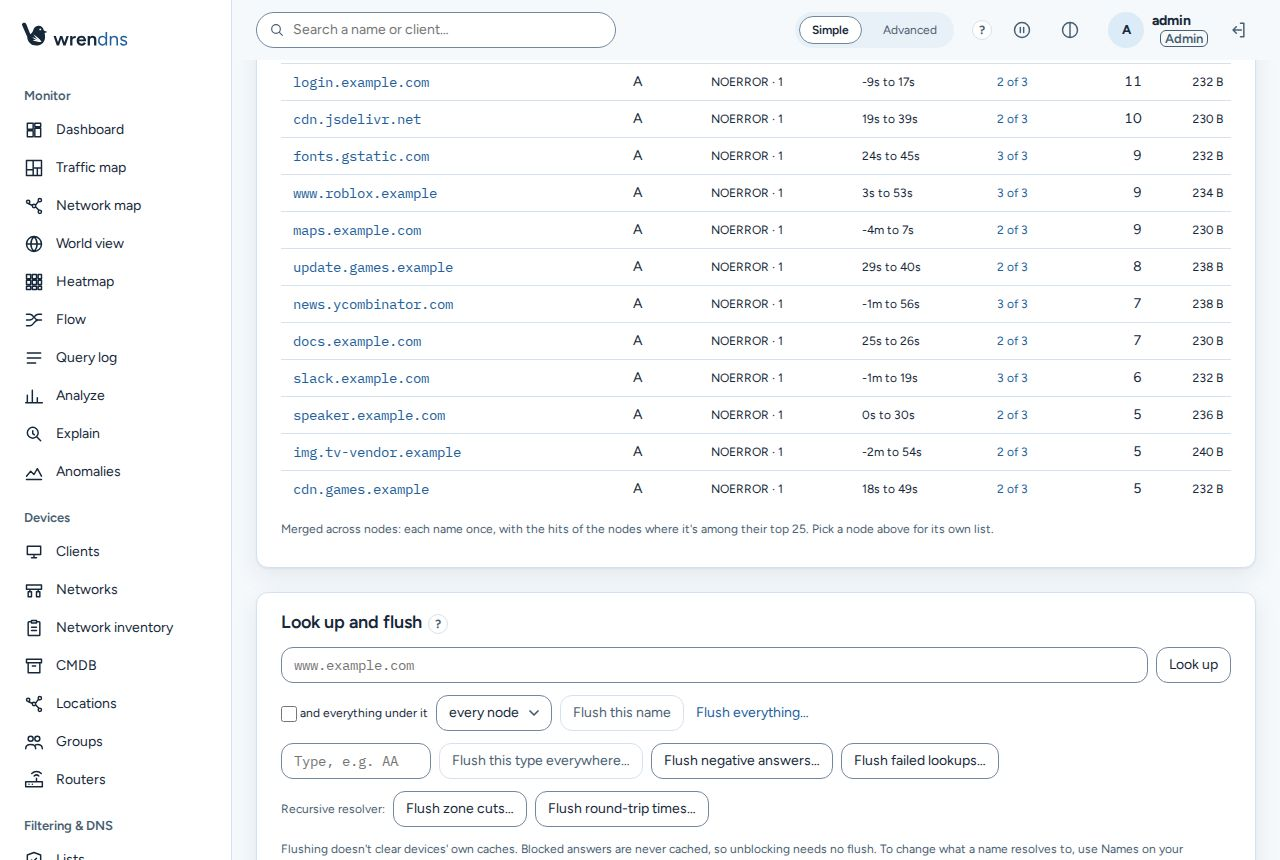
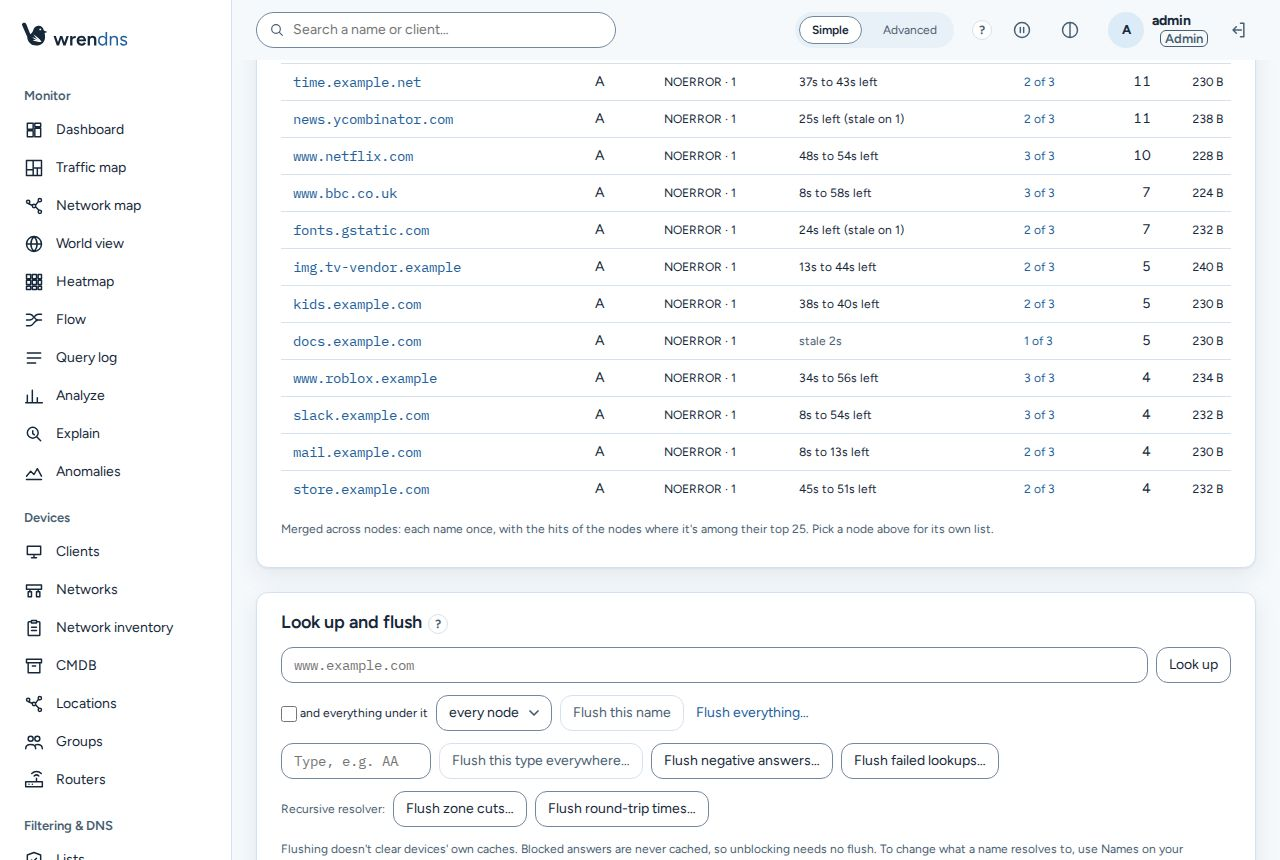
fix(ui): the cache chart legend works percentages out from counts, merged top names never show a negative time left, Lists status shows while a row downloads; shots retaken [DNS-007, DNS-001, FLT-004, DOC-006]

diff --git a/ui/src/pages/Cache.svelte b/ui/src/pages/Cache.svelte
@@ -68,17 +68,19 @@
     const at = (iso: string) => Math.round(Date.parse(iso) / 1000 / step) * step;
     const times = [...new Set(stats.flatMap((s) => (s.history ?? []).map((p) => at(p.at))))].sort((a, b) => a - b);
     const index = new Map(times.map((t, i) => [t, i]));
-    const series = (pick: (p: S['CachePoint']) => number | null | undefined): Series[] =>
+    const series = (pick: (p: S['CachePoint']) => number | null | undefined, percent = false): Series[] =>
       stats.map((s, i) => {
         const values: (number | null)[] = times.map(() => null);
         for (const p of s.history ?? []) {
           const j = index.get(at(p.at));
           if (j != null) values[j] = pick(p) ?? null;
         }
-        return { label: label(s), color: colors[i % colors.length], values: values as number[] };
+        // A percentage is not added up over time or across nodes: each node's legend figure is its
+        // hits over its lookups for the hour (`hitLastHour`, from the counts), null before any lookup.
+        return { label: label(s), color: colors[i % colors.length], values: values as number[], ...(percent ? { overall: hitLastHour(s) } : {}) };
       });
     // DNS-007: answered from the cache (fresh or refreshed); fresh hits alone from older nodes.
-    return { times, hit: series((p) => p.answeredPercent ?? p.hitPercent), lookups: series((p) => p.lookups) };
+    return { times, hit: series((p) => p.answeredPercent ?? p.hitPercent, true), lookups: series((p) => p.lookups) };
   });
 
   const lastHour = (s: Stats, k: 'staleServed' | 'prefetches' | 'evictions' | 'lookups') =>
@@ -94,7 +96,6 @@
   const barColors = ['--ok', '--warn', '--info', '--bad'];
   let showAllNodes = $state(false);
   let expanded = $state<string | null>(null);
-  const ttlShort = (s: number) => (s >= 0 ? duration(s) : `-${duration(-s)}`);
   type Merged = {
     key: string;
     name: string;
@@ -107,6 +108,8 @@
     bytes: number;
     ttlMin: number;
     ttlMax: number;
+    /** Nodes holding it past its time (kept only to answer when upstreams fail). */
+    stale: number;
     nodes: { node: string; entry: S['CacheTopEntry'] }[];
   };
   // Answers with an error (a node that couldn't be asked) don't count as nodes holding names.
@@ -124,8 +127,12 @@
         if (m) {
           m.hits += e.hits;
           m.bytes = Math.max(m.bytes, e.bytes);
-          m.ttlMin = Math.min(m.ttlMin, e.ttlLeftSeconds);
-          m.ttlMax = Math.max(m.ttlMax, e.ttlLeftSeconds);
+          if (e.ttlLeftSeconds >= 0) {
+            m.ttlMin = Math.min(m.ttlMin, e.ttlLeftSeconds);
+            m.ttlMax = Math.max(m.ttlMax, e.ttlLeftSeconds);
+          } else {
+            m.stale++;
+          }
           m.authentic ||= e.authentic;
           m.nodes.push({ node, entry: e });
         } else {
@@ -139,8 +146,9 @@
             authentic: e.authentic,
             hits: e.hits,
             bytes: e.bytes,
-            ttlMin: e.ttlLeftSeconds,
-            ttlMax: e.ttlLeftSeconds,
+            ttlMin: e.ttlLeftSeconds >= 0 ? e.ttlLeftSeconds : Infinity,
+            ttlMax: e.ttlLeftSeconds >= 0 ? e.ttlLeftSeconds : -Infinity,
+            stale: e.ttlLeftSeconds >= 0 ? 0 : 1,
             nodes: [{ node, entry: e }],
           });
         }
@@ -148,7 +156,7 @@
     }
     const rows = [...by.values()];
     if (sort === 'bytes') rows.sort((a, b) => b.bytes - a.bytes);
-    else if (sort === 'expiring') rows.sort((a, b) => a.ttlMin - b.ttlMin);
+    else if (sort === 'expiring') rows.sort((a, b) => (a.stale ? -1 : a.ttlMin) - (b.stale ? -1 : b.ttlMin));
     else rows.sort((a, b) => b.hits - a.hits || b.nodes.length - a.nodes.length);
     return rows.slice(0, LIMIT);
   });
@@ -159,6 +167,14 @@
     ['servfail', 'SERVFAIL', 'SERVFAIL'],
   ];
   const total = (m: S['CacheMakeup']) => m.positive + m.nxdomain + m.nodata + m.servfail;
+  // REQ: DNS-001 — the time left across nodes: the range over the nodes where it is still good
+  // (never a negative time: an entry past its time is not part of the range), and how many hold
+  // it stale; held stale everywhere, it reads like a single node's row.
+  const ttlRange = (m: Merged) => {
+    if (m.ttlMax < 0) return m.stale > 1 ? `stale on ${m.stale} nodes` : ttl(m.nodes[0].entry.ttlLeftSeconds);
+    const live = duration(m.ttlMin) === duration(m.ttlMax) ? `${duration(m.ttlMin)} left` : `${duration(m.ttlMin)} to ${duration(m.ttlMax)} left`;
+    return m.stale ? `${live} (stale on ${m.stale})` : live;
+  };
   const ttl = (s: number) => (s >= 0 ? `${duration(s)} left` : `stale ${duration(-s)}`);
   let lookupName = $state('');
   // REQ: OBS-021 — the size advice's verdicts.
@@ -326,7 +342,7 @@
                   <td class="mono"><button class="link" onclick={() => (lookupName = m.name)} title="Look it up below">{m.name}</button></td>
                   <td>{m.qtype}{#if m.dnssecOk}<span class="muted small"> (DO)</span>{/if}</td>
                   <td class="small">{m.rcode} · {m.answers}{#if m.authentic}<span class="badge ok">validated</span>{/if}</td>
-                  <td class="small {m.ttlMax < 0 ? 'muted' : ''}">{ttlShort(m.ttlMin) === ttlShort(m.ttlMax) ? ttl(m.ttlMin) : `${ttlShort(m.ttlMin)} to ${ttlShort(m.ttlMax)}`}</td>
+                  <td class="small {m.ttlMax < 0 ? 'muted' : ''}">{ttlRange(m)}</td>
                   {#if multi}
                     <td class="small">
                       <button class="link" aria-expanded={expanded === m.key} onclick={() => (expanded = expanded === m.key ? null : m.key)}

diff --git a/ui/tests/e2e/1-ui.spec.ts b/ui/tests/e2e/1-ui.spec.ts
@@ -531,6 +531,78 @@ test('dns_007 cache tile: one number, split in the Advanced view', async () => {
   await page.unroute('**/api/v1/stats/summary*');
 });
 
+// REQ: DNS-007 — the Cache page's percentage chart does not add up percentages: each node's legend
+// figure is its hits over its lookups for the hour. REQ: DNS-001 — the merged top names never show a
+// negative time left: a node holding an entry past its time is counted as stale, not as "-9s".
+test('dns_007 cache page: percent legend from counts, no negative time left in the merged range', async () => {
+  await page.setViewportSize({ width: 1280, height: 900 });
+  const now = Date.now();
+  const history = (pct: number, lookups: number) =>
+    Array.from({ length: 6 }, (_, i) => ({
+      at: new Date(now - (5 - i) * 15_000).toISOString(), answeredPercent: pct, hitPercent: pct, lookups,
+      bytes: 1, entries: 1, evictions: 0, prefetches: 0, staleServed: 0,
+    }));
+  const node = (name: string, pct: number, lookups: number) => ({
+    node: name, bytes: 1, entries: 1, evictions: 0, hits: 1, inserts: 1, misses: 1, prefetches: 0, staleServed: 0, uncacheable: 0,
+    answeredPercent: pct, hitPercent: pct, history: history(pct, lookups),
+  });
+  const entry = (name: string, ttlLeftSeconds: number) => ({
+    name, qtype: 'A', rcode: 'NOERROR', answers: 1, authentic: false, dnssecOk: false, ttlLeftSeconds, ageSeconds: 5, bytes: 64, hits: 3,
+  });
+  const makeup = { positive: 1, nxdomain: 0, nodata: 0, servfail: 0, stale: 0, validated: 0 };
+  await page.route('**/api/v1/cache/stats', (route) =>
+    route.fulfill({ json: { items: [node('node-a', 50, 100), node('node-b', 80, 300)] } }),
+  );
+  await page.route('**/api/v1/cache/entries*', (route) =>
+    route.fulfill({
+      json: {
+        items: [
+          { node: 'node-a', makeup, entries: [entry('mix.example.test', -9), entry('gone.example.test', -4), entry('live.example.test', 30)] },
+          { node: 'node-b', makeup, entries: [entry('mix.example.test', 17), entry('gone.example.test', -70), entry('live.example.test', 12)] },
+        ],
+      },
+    }),
+  );
+  await page.goto('/#/cache');
+  await page.reload();
+  // 6 points x 100 lookups at 50% = 300 hits of 600; node-b 80% of 300 each = 1440 of 1800.
+  const legend = page.locator('section.chart', { hasText: 'Answered from the cache' }).locator('.u-legend .u-value');
+  await expect(legend.nth(1)).toHaveText('50.0%');
+  await expect(legend.nth(2)).toHaveText('80.0%');
+  const top = page.getByTestId('cache-top');
+  await expect(top).toContainText('mix.example.test');
+  await expect(top).not.toContainText(/-\d+[smhd]/);
+  const rows = top.locator('tbody tr');
+  await expect(rows.filter({ hasText: 'mix.example.test' })).toContainText('17s left (stale on 1)');
+  await expect(rows.filter({ hasText: 'gone.example.test' })).toContainText('stale on 2 nodes');
+  await expect(rows.filter({ hasText: 'live.example.test' })).toContainText('12s to 30s left');
+  // The invented nodes have no settings on the server: the page's two 404s are expected.
+  for (let i = problems.length - 1; i >= 0; i--) if (/status of 404/.test(problems[i])) problems.splice(i, 1);
+  await page.unroute('**/api/v1/cache/stats');
+  await page.unroute('**/api/v1/cache/entries*');
+});
+
+// REQ: FLT-004 — with every enabled list inline there is no download to confirm, so the page does
+// not say "Some enabled lists have never downloaded".
+test('flt_004 lists page: no never-downloaded notice when every enabled list is inline', async () => {
+  // The e2e server's lists are all inline; the second pass makes one of them a download never made.
+  let remote = false;
+  await page.route('**/api/v1/lists', async (route) => {
+    const r = await route.fetch();
+    const body = await r.json();
+    const items = remote ? body.items.map((l: { source: string }, i: number) => (i === 0 ? { ...l, source: 'https://lists.example.test/x.txt', lastSuccessUnixSeconds: null } : l)) : body.items;
+    await route.fulfill({ response: r, json: { ...body, items } });
+  });
+  await page.goto('/#/lists');
+  await page.reload();
+  await expect(page.getByText('e2e-block', { exact: true }).first()).toBeVisible();
+  await expect(page.getByTestId('lists-refresh-status')).toHaveCount(0);
+  remote = true;
+  await page.reload();
+  await expect(page.getByTestId('lists-refresh-status')).toContainText('Some enabled lists have never downloaded.');
+  await page.unroute('**/api/v1/lists');
+});
+
 // REQ: OBS-020 — Settings → System lists the listener probes: the e2e server's UDP listener
 // answers its own probe (every 5 s there), and probe queries stay out of the query log.
 test('obs_020 listener checks', async () => {

diff --git a/ui/src/lib/components/Chart.svelte b/ui/src/lib/components/Chart.svelte
@@ -12,6 +12,9 @@
     /** A CSS variable name (`--s-blocked`) or a color. */
     color: string;
     values: number[];
+    /** The legend's figure when not hovering. Left out: the sum of the values (counts). A percentage
+     *  cannot be summed: give the figure worked out from the counts underneath, or null for none. */
+    overall?: number | null;
   }
 
   let {
@@ -108,6 +111,8 @@
   // another line and pushed the plot up or down under the cursor. Each value keeps room for
   // its longest text instead (`ch` wide, tabular digits): the time's longest form, the
   // series' total; one that's longer still (another `format`) makes room once.
+  const overallText = (s: Series) =>
+    s.overall !== undefined ? (s.overall === null ? '–' : format(s.overall)) : format(s.values.reduce((a, v) => a + (v ?? 0), 0));
   let legendChars: number[] = [];
   function holdLegend(u: uPlot, init = false) {
     u.root.querySelectorAll<HTMLElement>('.u-legend .u-value').forEach((v, i) => {
@@ -148,7 +153,7 @@
     // In legend order (after the stacked reverse).
     legendChars = [
       Math.max('total'.length, clock(Math.floor(late.getTime() / 1000), true).length + 1),
-      ...order.map((i) => format(series[i].values.reduce((a, v) => a + (v ?? 0), 0)).length),
+      ...order.map((i) => overallText(series[i]).length),
     ];
     const opts: uPlot.Options = {
       width,
@@ -201,7 +206,7 @@
             points: { show: !bars && times.length < 3 },
             value: (_u: uPlot, _v: number | null, _si: number, idx: number | null) =>
               // Not hovering: the total over the shown range.
-              format(idx == null ? series[i].values.reduce((a, v) => a + (v ?? 0), 0) : (series[i].values[idx] ?? 0)),
+              idx == null ? overallText(series[i]) : format(series[i].values[idx] ?? 0),
           } satisfies uPlot.Series;
         }),
       ],

diff --git a/ui/tests/demo/site-shots.spec.ts b/ui/tests/demo/site-shots.spec.ts
@@ -73,9 +73,6 @@ for (const theme of ['light', 'dark'] as const) {
     await page.goto('/#/cache');
     await page.getByRole('heading', { name: 'Cache' }).first().waitFor();
     await page.waitForTimeout(1500);
-    // The chart legend under the cards adds up the nodes' percentages ("6111.6%"), which says nothing:
-    // the picture leaves that row out until the page is fixed.
-    await page.locator('.u-legend').evaluateAll((els) => els.forEach((el) => (el as HTMLElement).style.setProperty('visibility', 'hidden')));
     await page.mouse.move(0, 0);
     await siteShot(page, 'cache', theme);
     // The look-up and flush controls.

diff --git a/ui/src/pages/Lists.svelte b/ui/src/pages/Lists.svelte
@@ -387,7 +387,7 @@
       <div class="notice warn" role="status" data-testid="lists-unread">Hits leave out: {unread.join(', ')}.</div>
     {/if}
   {/if}
-  {#if refresh || lastUpdated || lists.some((l) => l.enabled && l.source !== 'inline')}
+  {#if refresh || starting || startingRow || lastUpdated || lists.some((l) => l.enabled && l.source !== 'inline')}
     <p class="small muted refresh-status" data-testid="lists-refresh-status" aria-live="polite">
       {#if startingRow}
         Downloading {startingRow}…
